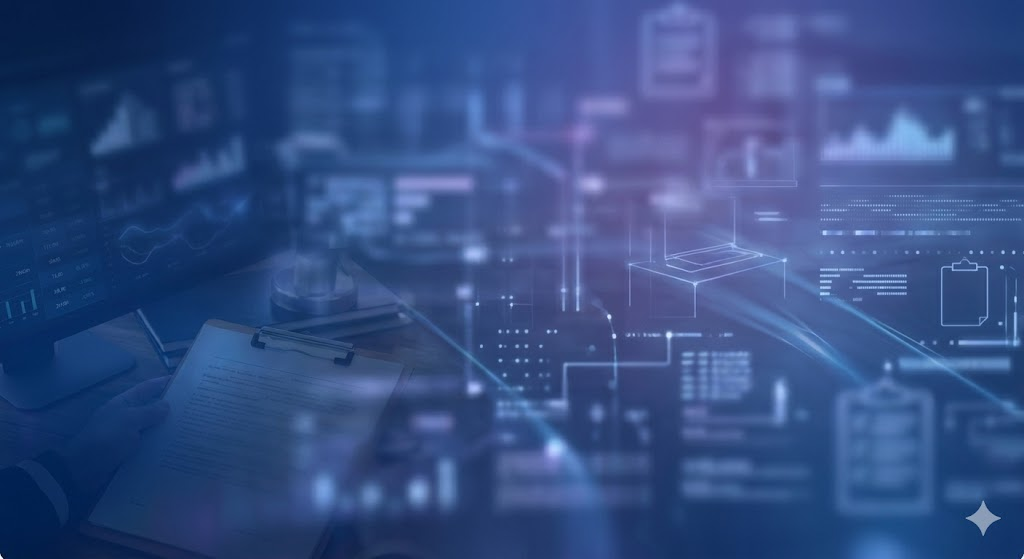
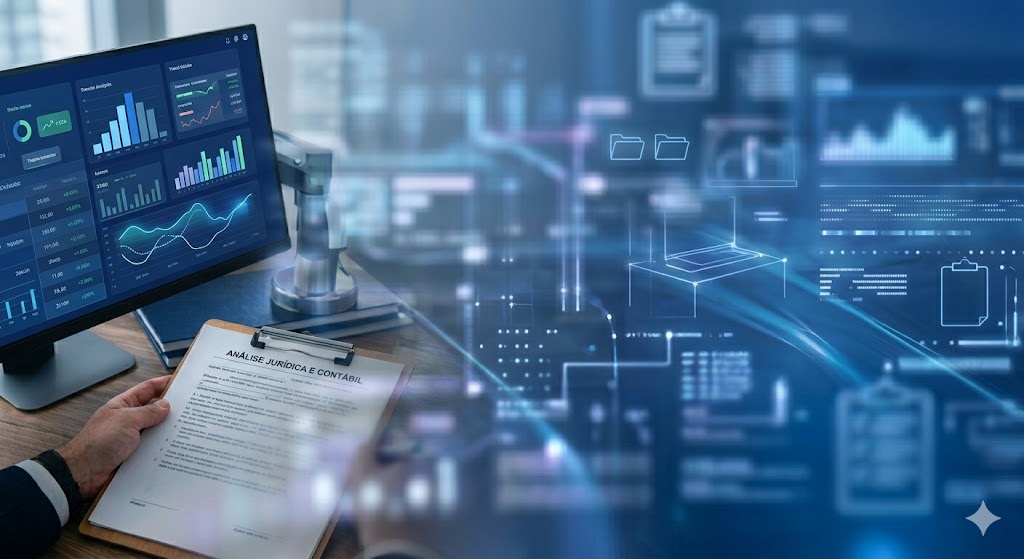
feat: EPS hero novo fundo alinhado à esquerda e Pablo sobre divisória

diff --git a/apps/portal/src/landing/pages/EPSLanding.tsx b/apps/portal/src/landing/pages/EPSLanding.tsx
@@ -87,27 +87,19 @@ export function EPSLanding() {
   };
 
   return (
-    <div className="min-h-screen font-sans text-slate-800 antialiased flex flex-col md:flex-row">
-      {/* Lado esquerdo - branding */}
+    <div className="relative min-h-screen font-sans text-slate-800 antialiased flex flex-col md:flex-row overflow-x-hidden">
+      {/* Lado esquerdo — arte ancorada à esquerda; corta na borda direita do painel (overflow-hidden) */}
       <div className="md:w-1/2 bg-[#0B1120] text-white flex flex-col justify-center px-8 py-12 md:px-12 lg:px-16 relative overflow-hidden min-h-screen">
         <div
-          className="absolute inset-0 bg-cover bg-center bg-no-repeat"
-          style={{ backgroundImage: 'url(/eps-hero-bg.png)' }}
+          className="absolute inset-0 bg-cover bg-left bg-no-repeat"
+          style={{ backgroundImage: "url('/eps-hero-bg.png')" }}
           aria-hidden
         />
-        <div className="absolute inset-0 bg-[#0B1120]/55" aria-hidden />
-        <div className="absolute inset-0 bg-gradient-to-br from-blue-900/40 to-transparent" aria-hidden />
+        <div className="absolute inset-0 bg-[#0B1120]/50" aria-hidden />
+        <div className="absolute inset-0 bg-gradient-to-r from-[#0B1120]/65 via-[#0B1120]/25 to-transparent" aria-hidden />
+        <div className="absolute inset-0 bg-gradient-to-br from-blue-900/35 to-transparent" aria-hidden />
 
-        {/* Foto do Pablo Arruda - posicionada absolutamente no lado direito, altura total */}
-        <div className="absolute bottom-0 right-0 w-[48%] h-full hidden md:flex items-end justify-center pointer-events-none">
-          <img
-            src="/pablo-arruda.png"
-            alt="Pablo Arruda - Engenharia do Planejamento Sucessório"
-            className="h-full w-auto object-contain object-bottom"
-          />
-        </div>
-
-        <div className="relative z-10 md:max-w-[54%]">
+        <div className="relative z-10 md:max-w-[min(100%,28rem)] md:pr-4">
           {/* Logos + badge */}
           <div className="flex flex-col sm:flex-row items-start sm:items-center gap-6 mb-16">
             <div className="flex items-center gap-3">
@@ -180,19 +172,43 @@ export function EPSLanding() {
           </ul>
         </div>
 
+        {/* Mobile: retrato abaixo do conteúdo */}
+        <div className="relative z-10 mt-8 flex justify-center md:hidden">
+          <img
+            src="/pablo-arruda.png"
+            alt="Pablo Arruda - Engenharia do Planejamento Sucessório"
+            className="max-h-56 w-auto object-contain object-bottom drop-shadow-xl"
+          />
+        </div>
       </div>
 
-      {/* Lado direito - formulário */}
-      <div
-        className="md:w-1/2 bg-slate-50 flex items-center justify-center p-6 md:p-12"
-        style={{
-          backgroundSize: '40px 40px',
-          backgroundImage:
-            'linear-gradient(to right, rgba(0,0,0,0.05) 1px, transparent 1px), linear-gradient(to bottom, rgba(0,0,0,0.05) 1px, transparent 1px)',
-        }}
-      >
-        <div className="bg-white rounded-2xl shadow-[0_8px_30px_rgb(0,0,0,0.08)] w-full max-w-md overflow-hidden border border-slate-100">
-          <div className="p-8">
+      {/* Lado direito — grid de fundo + Pablo atravessando a divisória + card acima */}
+      <div className="relative md:w-1/2 min-h-screen flex items-center justify-center p-6 md:p-12">
+        <div
+          className="absolute inset-0 bg-slate-50"
+          style={{
+            backgroundSize: '40px 40px',
+            backgroundImage:
+              'linear-gradient(to right, rgba(0,0,0,0.05) 1px, transparent 1px), linear-gradient(to bottom, rgba(0,0,0,0.05) 1px, transparent 1px)',
+          }}
+          aria-hidden
+        />
+
+        {/* Pablo: âncora no limite esquerdo da coluna clara (= meio da viewport); metade no azul, metade no claro */}
+        <div
+          className="pointer-events-none absolute bottom-0 left-0 z-[5] hidden h-[min(92vh,880px)] w-[min(46vw,520px)] -translate-x-[42%] md:flex md:items-end md:justify-center"
+          aria-hidden
+        >
+          <img
+            src="/pablo-arruda.png"
+            alt=""
+            className="max-h-full w-auto object-contain object-bottom [filter:drop-shadow(0_28px_48px_rgba(0,0,0,0.4))]"
+          />
+        </div>
+
+        <div className="relative z-20 w-full max-w-md">
+          <div className="bg-white rounded-2xl shadow-[0_8px_30px_rgb(0,0,0,0.08)] w-full overflow-hidden border border-slate-100">
+            <div className="p-8">
             {/* Header */}
             <div className="text-center mb-8">
               <h2 className="text-2xl font-bold text-slate-800 mb-2">
@@ -467,6 +483,7 @@ export function EPSLanding() {
               </p>
             </div>
           </div>
+        </div>
         </div>
       </div>
     </div>

diff --git a/apps/api/src/version.generated.ts b/apps/api/src/version.generated.ts
@@ -2,4 +2,4 @@
  * Gerado em tempo de build por scripts/build-lambda.mjs
  */
 export const API_VERSION = '1.0.0';
-export const API_UPDATED_AT = '2026-04-07T22:21:54.908Z';
+export const API_UPDATED_AT = '2026-04-07T22:30:09.942Z';
